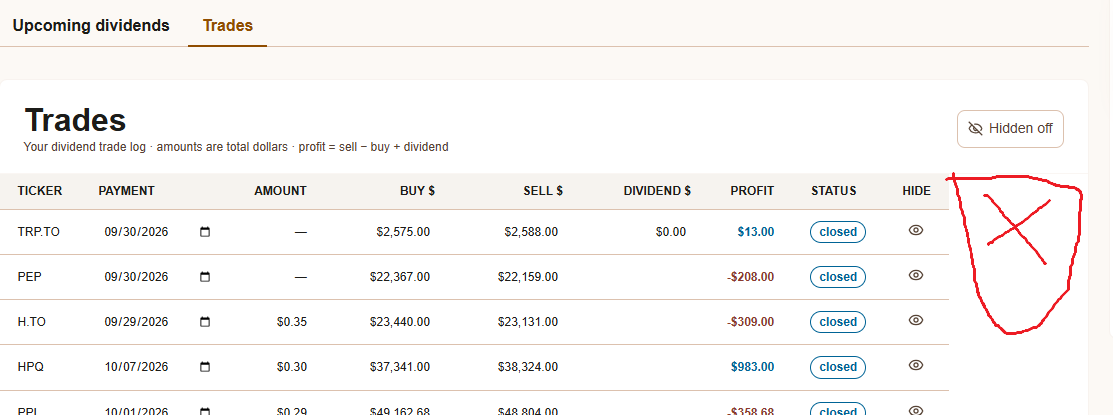
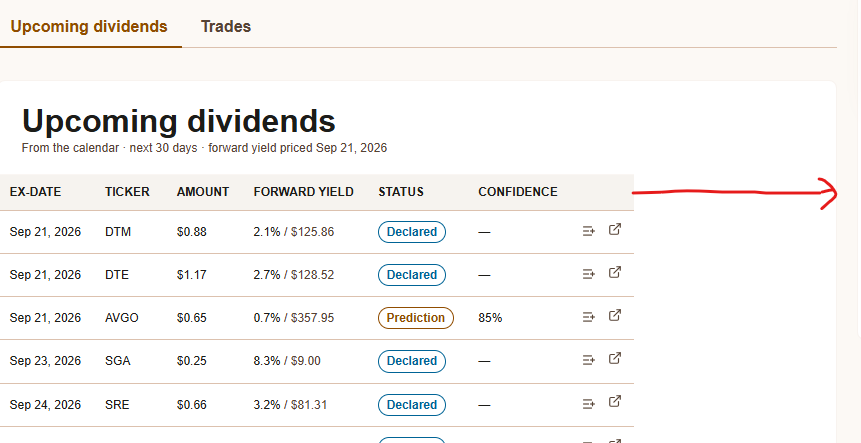
Stretch tables to fill their panel; drop now-redundant fit-content wrapper

diff --git a/src/style.css b/src/style.css
@@ -627,15 +627,10 @@ h2 {
     outline: 0;
 }
 
-/* Hug the table's own width so the header (and its right-aligned actions like
-   the "Hidden off" toggle) lines up with the table's right edge instead of the
-   full panel width. Caps at the panel width; the table then scrolls. */
+/* The table fills the panel, so this wrapper just spans full width; the header's
+   right-aligned actions (e.g. the "Hidden off" toggle) then align with the
+   table's right edge naturally. */
 .table-fit {
-    width: fit-content;
-    max-width: 100%;
-}
-
-.table-fit .table-header {
     width: 100%;
 }
 
@@ -695,12 +690,12 @@ tbody tr:hover {
 }
 
 /* Shared by the Trades and Upcoming dividends tables: many columns in a tight
-   width — compact padding + smaller type. width:auto lets the table hug its
-   content instead of stretching to fill the panel (which spread the columns
-   apart with ugly gaps and left a wide empty band after the last column). */
+   width — compact padding + smaller type. width:100% + min-width:0 lets the
+   table stretch to fill its panel (no empty band after the last column) while
+   still being allowed to shrink below the base 980px floor on narrow screens. */
 .data-table {
     min-width: 0;
-    width: auto;
+    width: 100%;
 }
 
 .data-table th,
